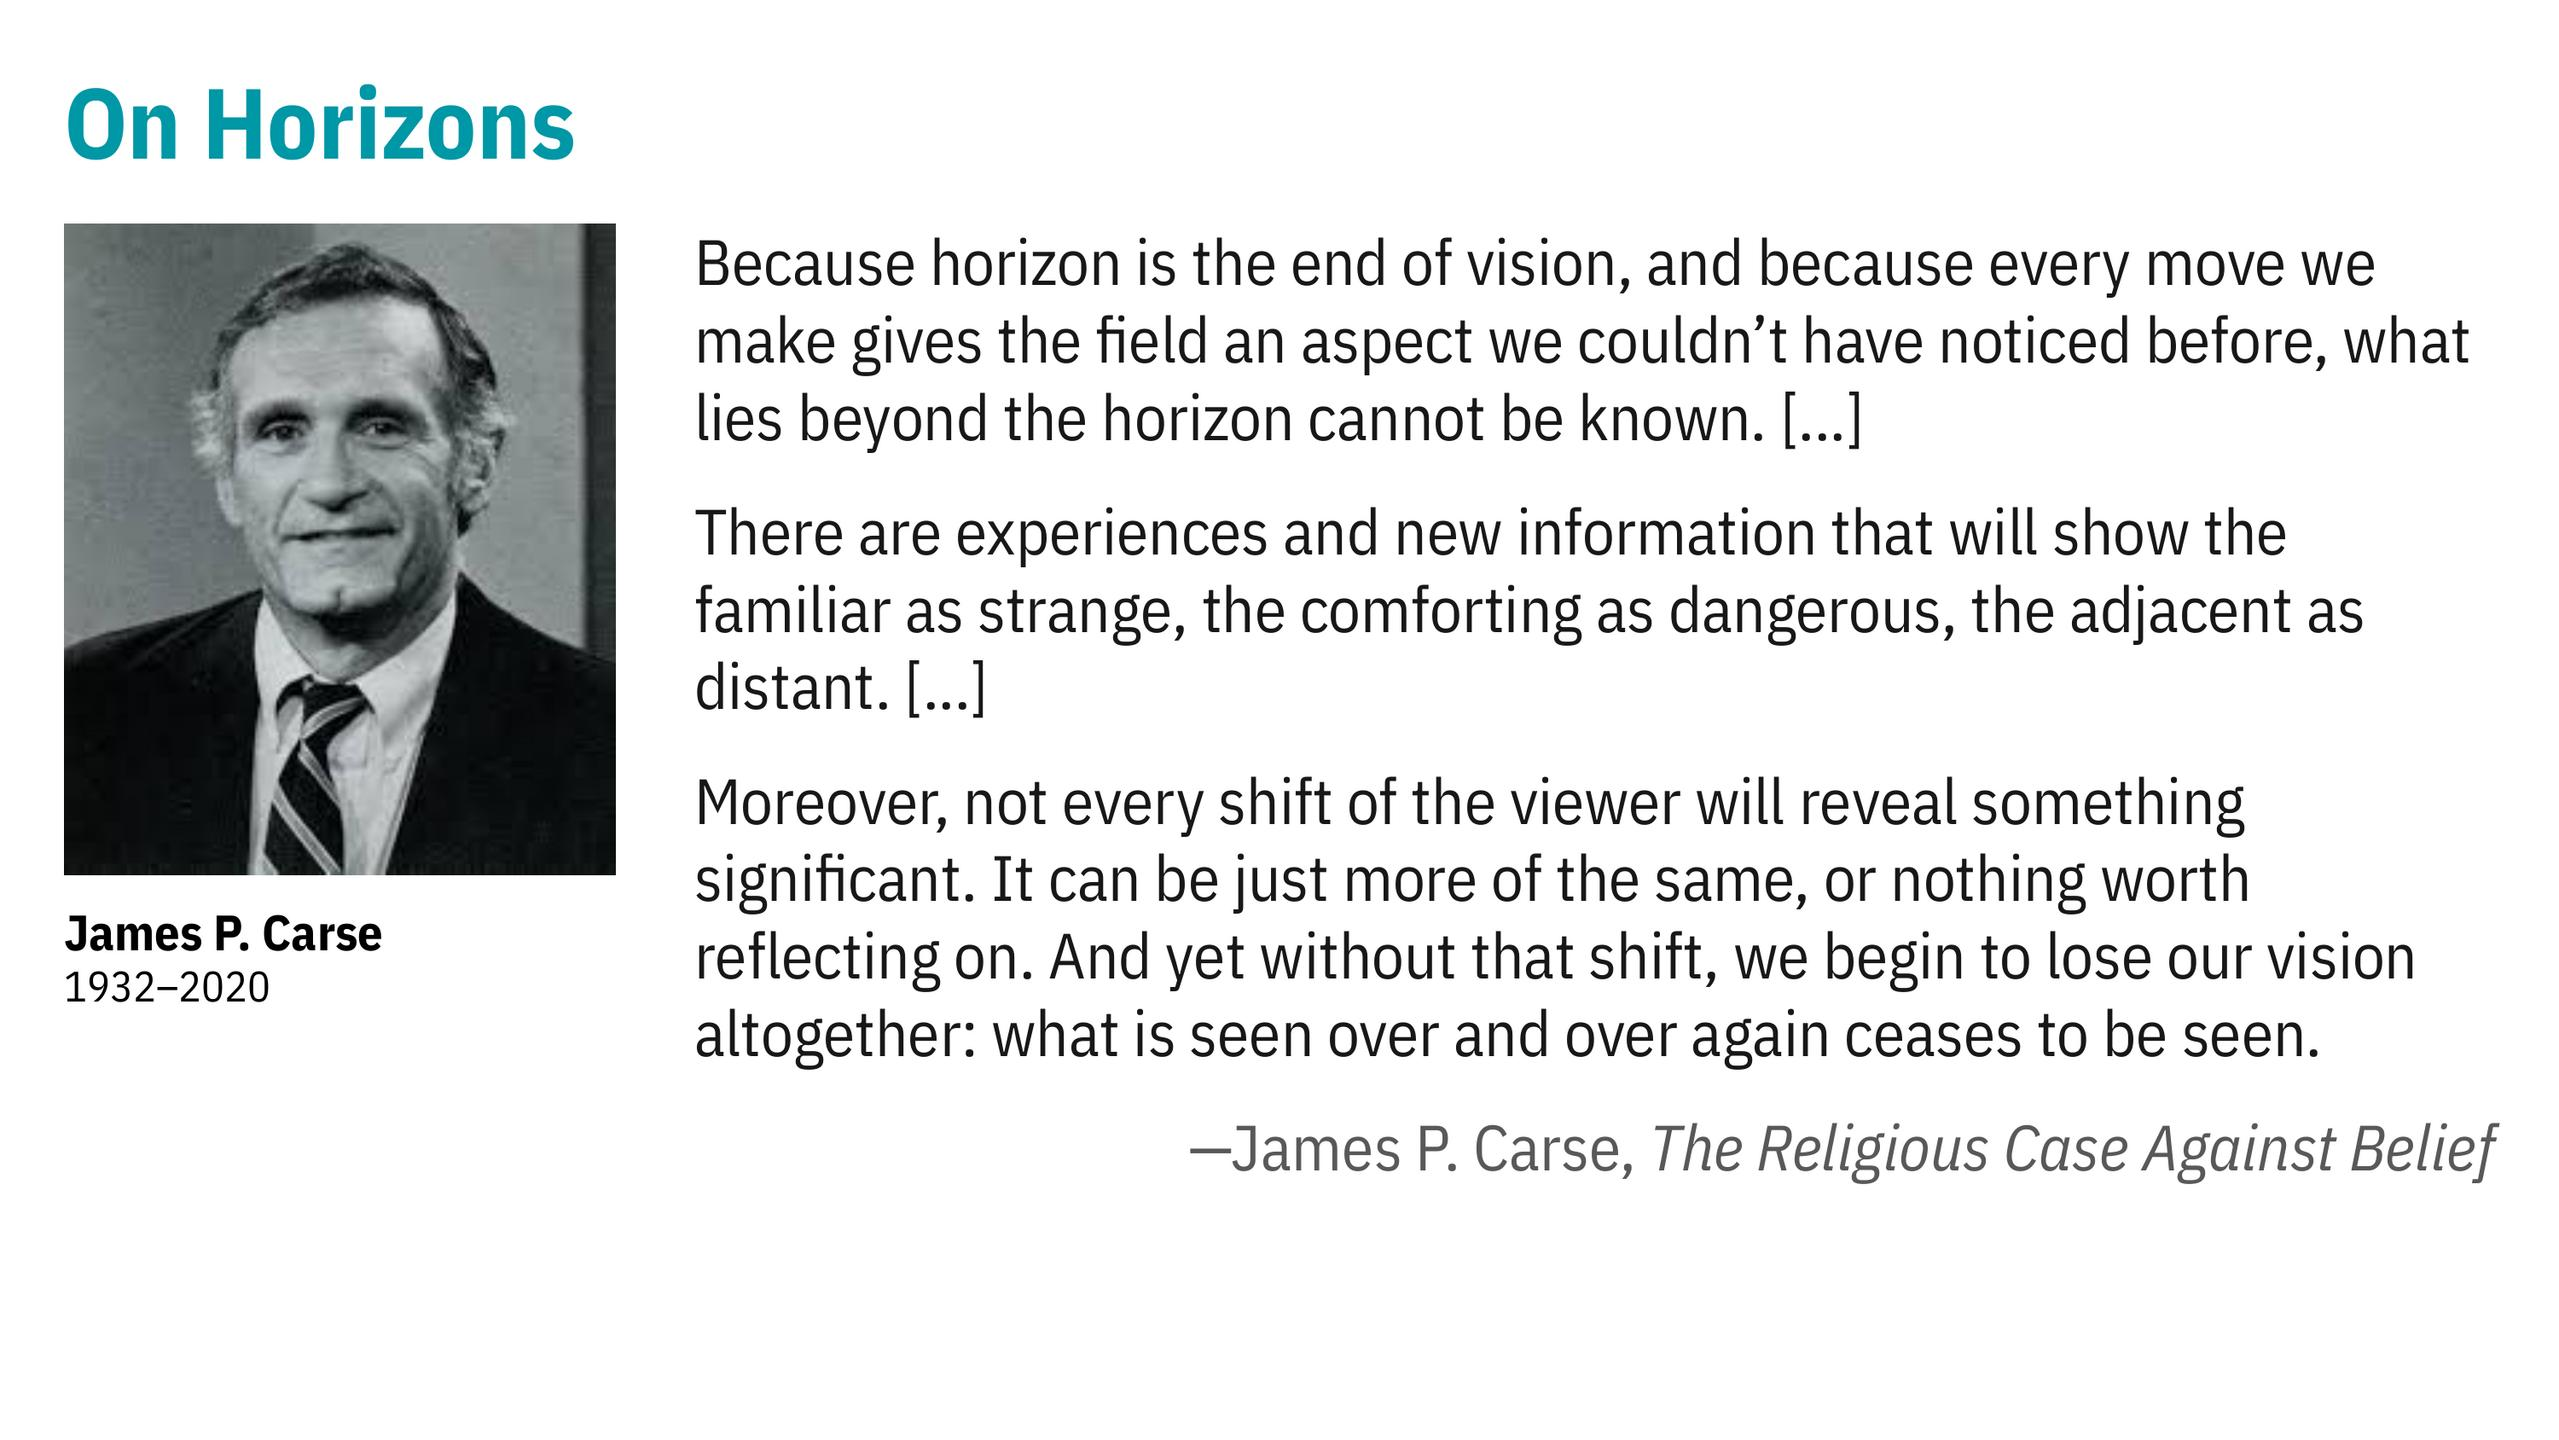
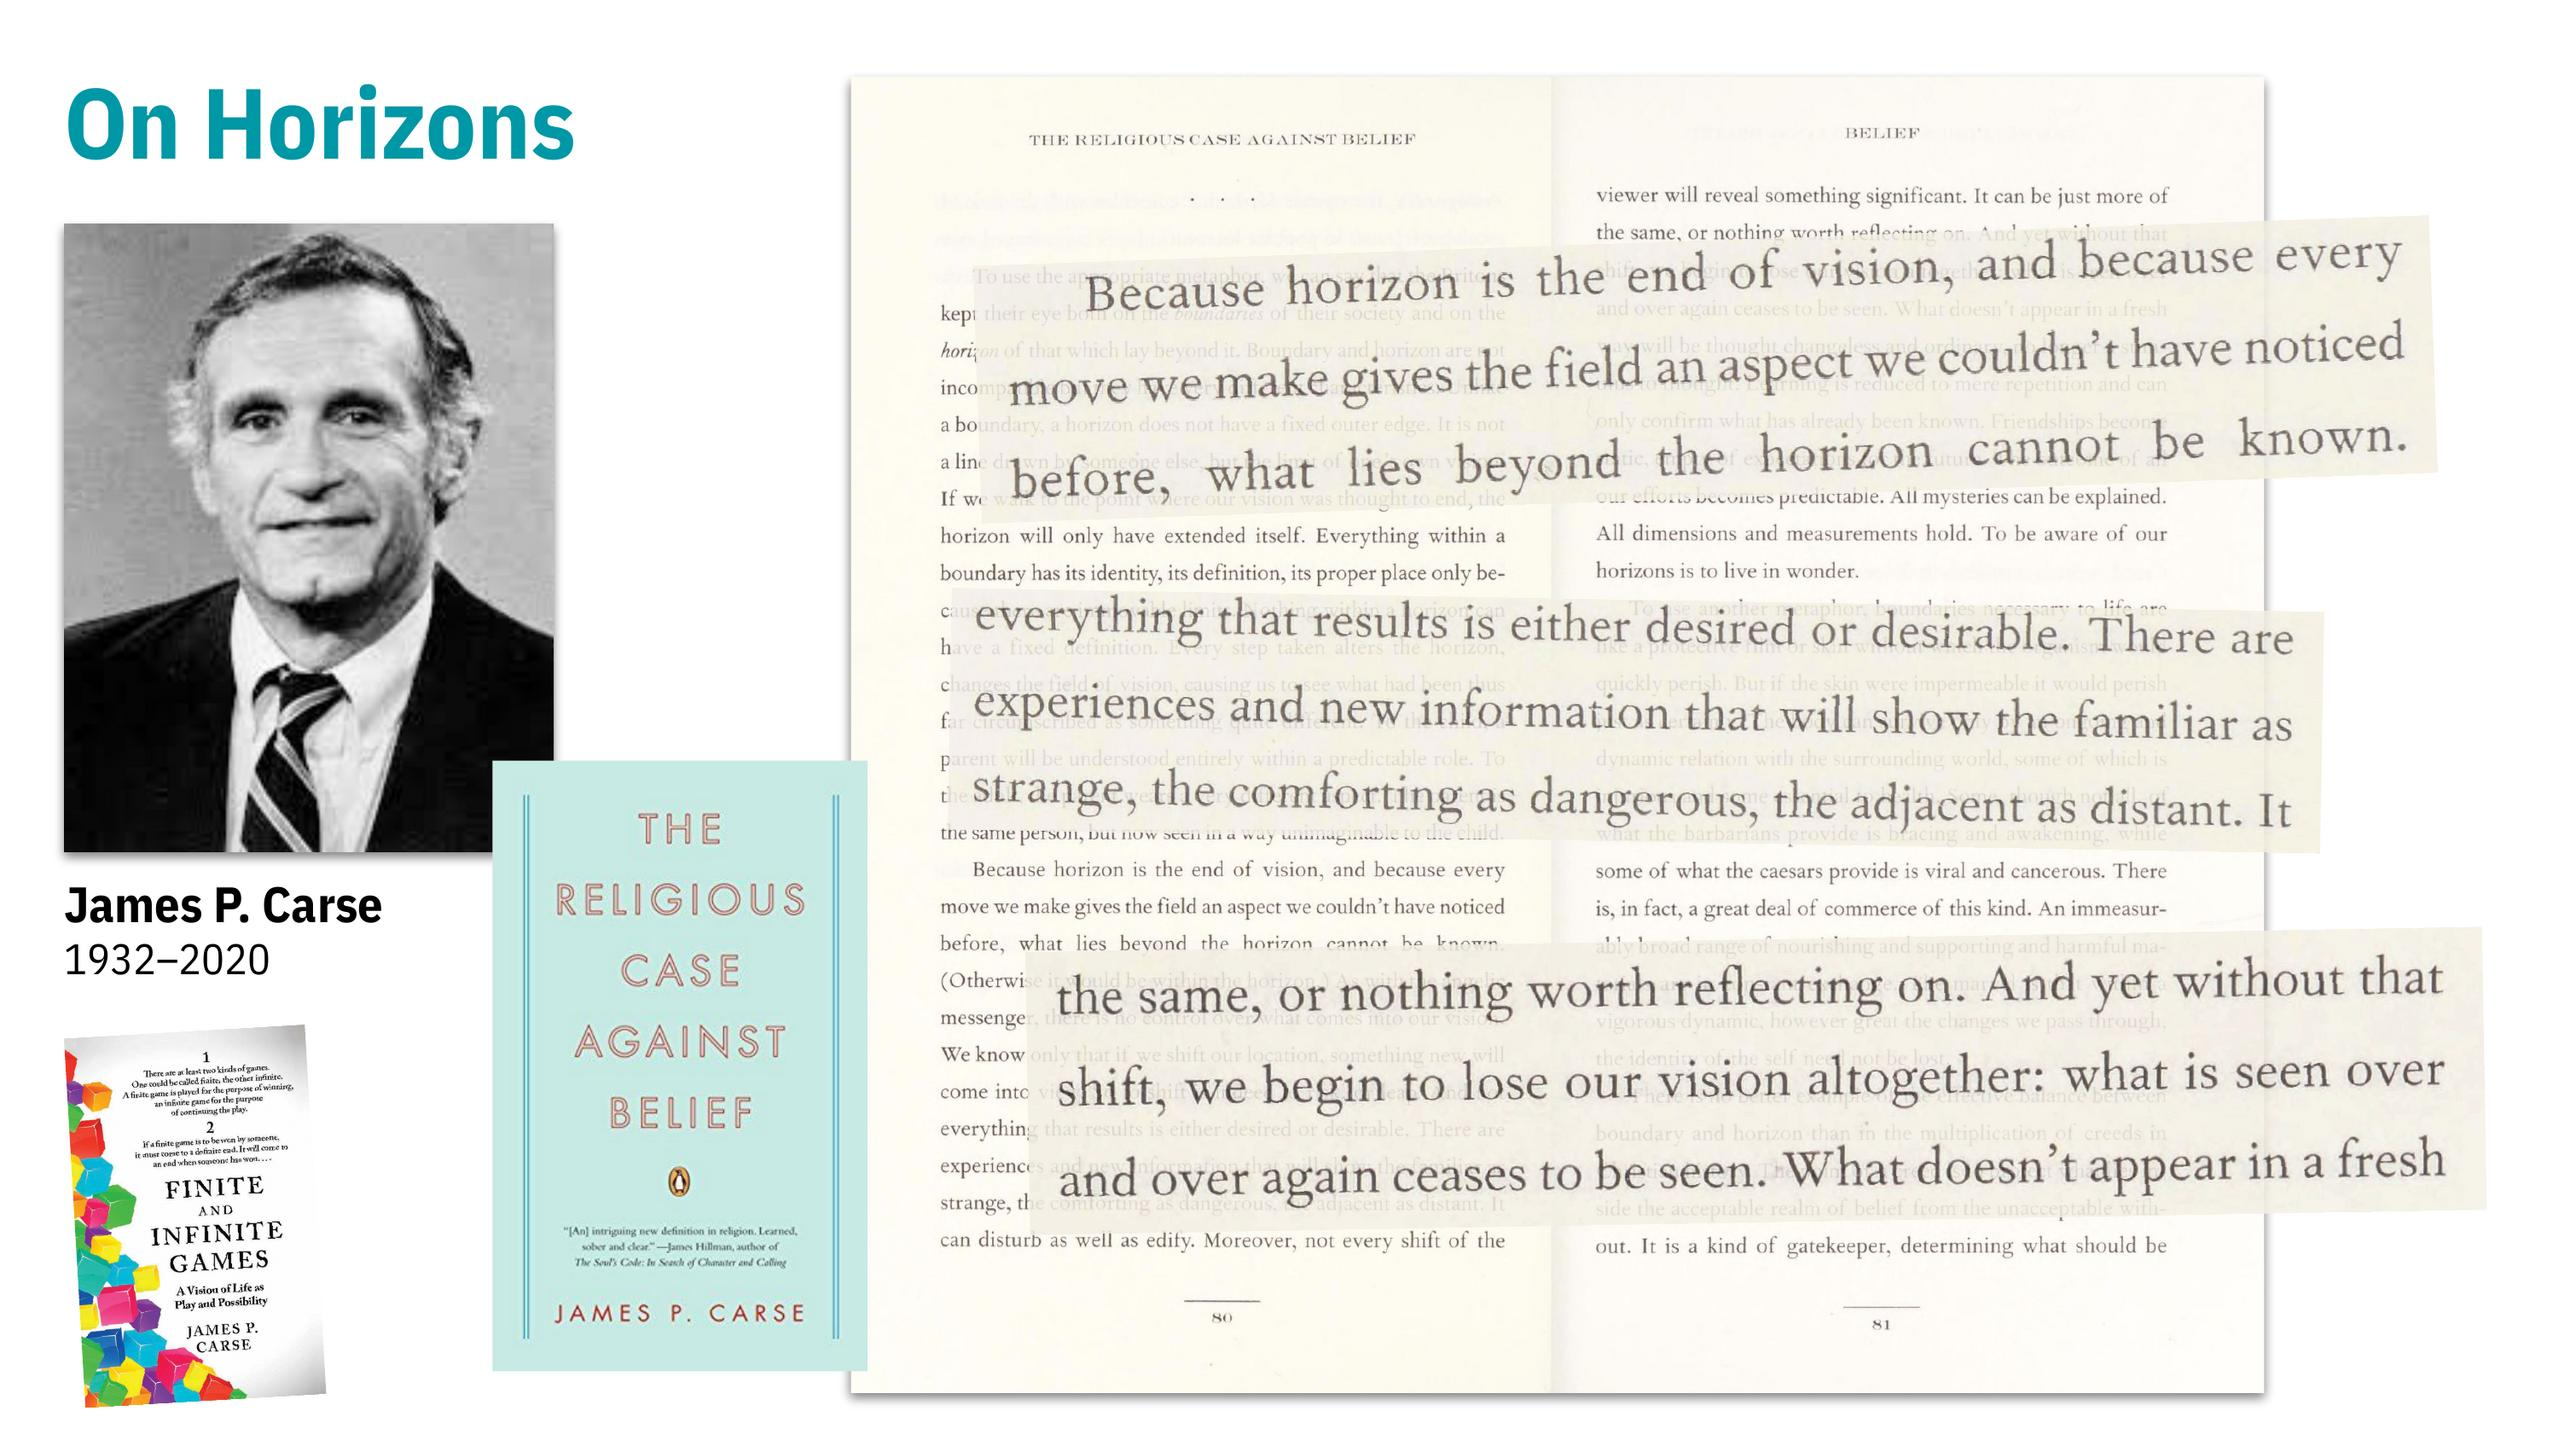
Tweaks, per Jenna

diff --git a/projects/future-frontiers/01-philosophy-01-on-horizons-01.md b/projects/future-frontiers/01-philosophy-01-on-horizons-01.md
@@ -3,7 +3,7 @@ section: Philosophy
 title: On Horizons
 layout: page-project-slide
 date: 2020-12-01 00:00:00
-google_doc: "https://docs.google.com/presentation/d/1oIziqtVM878uRG-JOfrQNvGFsQWKP_S_W8cLkhQlXvA/edit#slide=id.g86ae70180b_36_7"
+google_doc: "https://docs.google.com/presentation/d/1oIziqtVM878uRG-JOfrQNvGFsQWKP_S_W8cLkhQlXvA/edit#slide=id.ga87d80f4b3_0_0"
 hero_image: /projects/future-frontiers/01-philosophy-01-on-horizons-01.jpg
 hero_desciption: On Horizons
 hero_border: true
@@ -11,10 +11,17 @@ hero_position: left
 page_text_color: black
 page_bg_color: "252,251,248"
 author: rao-venkatesh
-description: Frontiers are essential food for the psyche, for a species with the temporal imagination to see past the limits of individual mortality.
+description: Frontiers are spaces where moving towards horizons results reliably, if not predictably, in encounters with novelty.
 ---
 <h3 class="slide-deck-visible-anchor"><a href="#projects-future-frontiers-01-philosophy-01-on-horizons-01">On Horizons</a></h3>
 
-From James P. Carse's [_The Religious Case Against Belief_](https://openlibrary.org/books/OL12433661M/The_Religious_Case_Against_Belief), pages 80 - 81:
+_“Because horizon is the end of vision, and because every move we make gives the field an aspect we couldn’t have noticed before, what lies beyond the horizon cannot be known. […]_
 
-> Frontiers are essential food for the psyche, for a species with the temporal imagination to see past the limits of individual mortality. Frontiers are spaces where moving towards horizons results reliably, if not predictably, in encounters with novelty. And it is the endless supply of novelty flowing across the frontier horizons of humanity that makes it possible to play what philosopher James Carse called the infinite game, where the goal is not to win, but to continue the play.
+_“There are experiences and new information that will show the familiar as strange, the comforting as dangerous, the adjacent as distant. […]_
+
+_“Moreover, not every shift of the viewer will reveal something significant. It can be just more of the same, or nothing worth reflecting on. And yet without that shift, we begin to lose our vision altogether: what is seen over and over again ceases to be seen.”_ — James P. Carse, [_The Religious Case Against Belief_](https://archive.org/details/religiouscaseaga00cars), pages 80 - 81
+
+Frontiers are essential food for the psyche, for a species with the temporal imagination to see past the limits of individual mortality. Frontiers are spaces where moving towards horizons results reliably, if not predictably, in encounters with novelty. And it is the endless supply of novelty flowing across the frontier horizons of humanity that makes it possible to play what philosopher James Carse called the infinite game, where the goal is not to win, but to continue the play.
+
+- _The Religious Case Against Belief_ ([link](https://openlibrary.org/books/OL12433661M/The_Religious_Case_Against_Belief))
+- _Finite and Infinite Games_ ([link](https://openlibrary.org/works/OL2669550W/Finite_and_infinite_games))

diff --git a/projects/future-frontiers/01-philosophy-01-on-horizons-02.md b/projects/future-frontiers/01-philosophy-01-on-horizons-02.md
@@ -1,22 +1,17 @@
 ---
 section: Philosophy
-title: On Horizons
+title: Overview Effect
 layout: page-project-slide
 date: 2020-12-01 00:00:00
-google_doc: "https://docs.google.com/presentation/d/1oIziqtVM878uRG-JOfrQNvGFsQWKP_S_W8cLkhQlXvA/edit#slide=id.ga87d80f4b3_0_0"
-hero_image: /projects/future-frontiers/01-philosophy-01-on-horizons-02.jpg
-hero_desciption: On Horizons
-hero_border: true
+google_doc: "https://docs.google.com/presentation/d/1oIziqtVM878uRG-JOfrQNvGFsQWKP_S_W8cLkhQlXvA/edit#slide=id.g8e57ae87b5_8_0"
+hero_image: /projects/future-frontiers/01-philosophy-01-on-horizons-02.png
+hero_desciption: Section Author
+hero_border: false
 hero_position: left
 page_text_color: black
 page_bg_color: "252,251,248"
 author: rao-venkatesh
-description: Frontiers are spaces where moving towards horizons results reliably, if not predictably, in encounters with novelty.
+description: Section author…
 ---
-From James P. Carse's [_The Religious Case Against Belief_](https://archive.org/details/religiouscaseaga00cars), pages 80 - 81:
-
-> Frontiers are essential food for the psyche, for a species with the temporal imagination to see past the limits of individual mortality. Frontiers are spaces where moving towards horizons results reliably, if not predictably, in encounters with novelty. And it is the endless supply of novelty flowing across the frontier horizons of humanity that makes it possible to play what philosopher James Carse called the infinite game, where the goal is not to win, but to continue the play.
-
-**See also:**
-
-- [_Finite and Infinite Games_](https://openlibrary.org/works/OL2669550W/Finite_and_infinite_games)
+{% assign author = site.pages | find: "url", "/members/rao-venkatesh/" %}
+{% include widget-member-card.html member=author %}

diff --git a/projects/future-frontiers.md b/projects/future-frontiers.md
@@ -24,8 +24,7 @@ page_headers: |
     #philosophy {
       margin-top: 0;
     }
-    #projects-future-frontiers-01-philosophy-01-on-horizons-02,
-    #projects-future-frontiers-01-philosophy-01-on-horizons-03 {
+    #projects-future-frontiers-01-philosophy-01-on-horizons-02 {
       border-color: rgba(15,15,15,0.2);
       border-top-style: solid;
       border-top-width: 1px;
